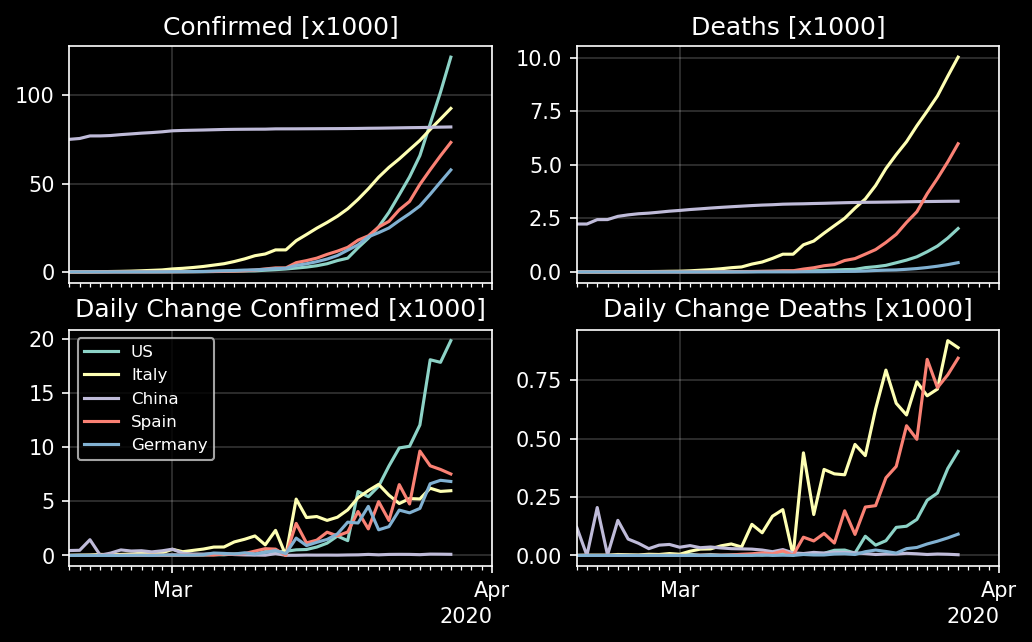
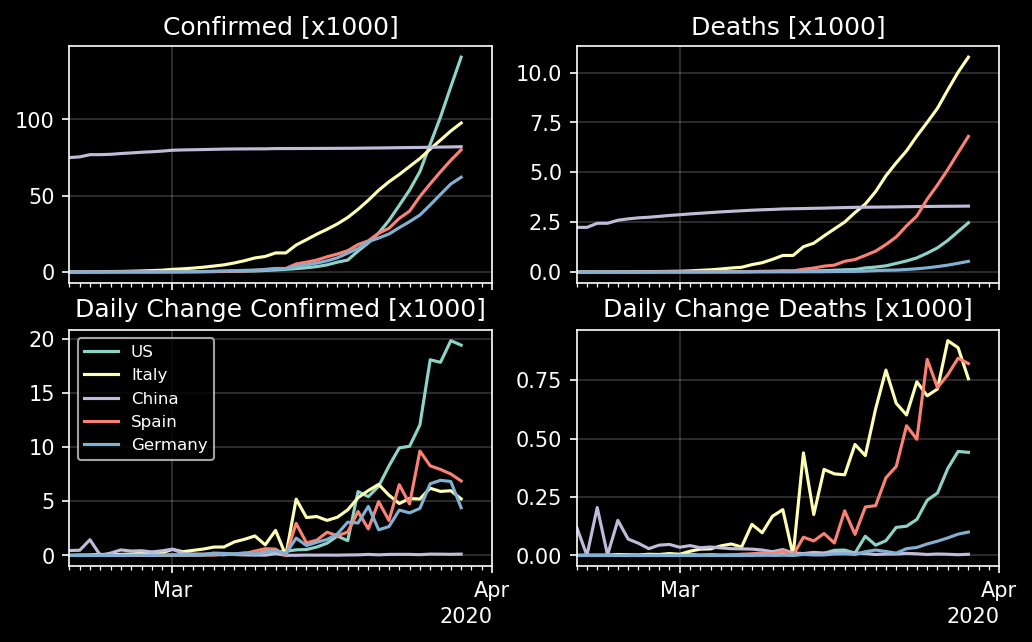
Updated with 3/29/2020 data. Added city of Philadelphia plot.

diff --git a/philadelphia.py b/philadelphia.py
@@ -1,0 +1,90 @@
+import pandas as pd
+from matplotlib import pyplot as plt
+import matplotlib.dates as mdates
+import numpy as np
+import data_grabber
+from datetime import datetime
+
+# Data location and variables
+sort_var = 'Confirmed'
+y_scale = 1
+data_to_plot = ['Confirmed', 'Deaths']
+country = 'US'
+dpi = 150
+figsize = (1200 / dpi, 675 / dpi)
+date_start = np.datetime64('2020-03-01')  # None for min
+date_final = np.datetime64('2020-04-01')  # None for max
+cities = ['Philadelphia']
+
+# Get dataframe for all data files
+df_all = data_grabber.get_covid_df()
+date = np.sort(df_all['Date'].unique())  # x-axis for plot
+
+# Get sub-dataframe for country of interest
+df = df_all[df_all['Country_Region'] == country]
+
+data_dict = dict()
+for c in cities:
+    dfc = df[df['Admin2'] == c]  # Dataframe for current region
+    Confirmed = []
+    Deaths = []
+    Recovered = []
+    for d in date:
+        # Get dataframe for current country and date and sum states together
+        dfd = dfc[dfc['Date'] == d]
+        Confirmed.append(dfd['Confirmed'].sum())
+        Deaths.append(dfd['Deaths'].sum())
+        Recovered.append(dfd['Recovered'].sum())
+    # Create a dictionary with this country's data
+    c_dict = dict()
+    c_dict['Confirmed'] = np.array(Confirmed)
+    c_dict['Deaths'] = np.array(Deaths)
+    c_dict['Recovered'] = np.array(Recovered)
+    # Calculate the total for each category to plot the top countries ones
+    c_dict['Confirmed_Total'] = np.array(Confirmed)[-1]
+    c_dict['Deaths_Total'] = np.array(Deaths)[-1]
+    c_dict['Recovered_Total'] = np.array(Recovered)[-1]
+    data_dict[c] = c_dict
+
+# Convert dictionary of dictionaries into a dataframe
+df = pd.DataFrame(data_dict).T
+# Sort by "sort_val" total
+df.sort_values('{}_Total'.format(sort_var), axis=0, ascending=False, inplace=True)
+
+# Plot timeline data for each category
+plt.style.use('dark_background')
+fig, axs = plt.subplots(2, len(data_to_plot), figsize=figsize, dpi=dpi, sharex='all')
+months = mdates.MonthLocator()
+days = mdates.DayLocator()
+for y_str, ax in zip(data_to_plot, axs.T):
+    ax0 = ax[0]
+    ax1 = ax[1]
+    for ci, c in enumerate(df.iloc[0:len(cities)].index.values):
+        y = df.iloc[ci, :][y_str]
+        ax0.plot_date(date, y / y_scale, '-', label=c)
+        ax0.plot_date(date[-1], y[-1] / y_scale, '.', color='y')
+        ax0.text(date[-1], y[-1] / y_scale, np.datetime_as_string(date[-1], 'D'),
+                 horizontalalignment='right', color='y')
+        dy = np.diff(y)
+        ax1.plot_date(date[1:], dy / y_scale, '-', label=c)
+        ax1.plot_date(date[-1], dy[-1] / y_scale, '.', color='y')
+        ax1.text(date[-1], dy[-1] / y_scale, np.datetime_as_string(date[-1], 'D'),
+                 horizontalalignment='right', color='y')
+    ax0.xaxis.set_tick_params(labelsize=10)
+    ax0.set_title('{}'.format(y_str, int(y_scale)))
+    ax1.set_title('Daily Change in {}'.format(y_str, int(y_scale)))
+    dst = date[0] if date_start is None else date_start
+    den = ax0.get_xlim()[1] if date_final is None else date_final
+    ax0.set_xlim((dst, den))
+    ax0.set_ylim((ax0.get_ylim()[0], ax0.get_ylim()[1]*1.05))
+    ax1.set_ylim((ax1.get_ylim()[0], ax1.get_ylim()[1]*1.05))
+    formatter = mdates.ConciseDateFormatter('%b')
+    ax0.xaxis.set_major_locator(months)
+    ax0.xaxis.set_major_formatter(formatter)
+    ax0.xaxis.set_minor_locator(days)
+    ax0.grid(alpha=0.2)
+    ax1.grid(alpha=0.2)
+now = datetime.utcnow()
+axs[1, 0].legend(loc=2, fontsize=8, ncol=int(np.ceil(len(cities) / 8)))  # 8 rows max
+fig.savefig('fig/philadelphia.png', bbox_inches='tight')
+fig.show()

diff --git a/README.md b/README.md
@@ -33,3 +33,11 @@ python states.py
 ```
 
 ![](fig/states.png)
+
+# Time Series for Philadelphia
+
+```
+python philadelphia.py
+```
+
+![](fig/philadelphia.png)
